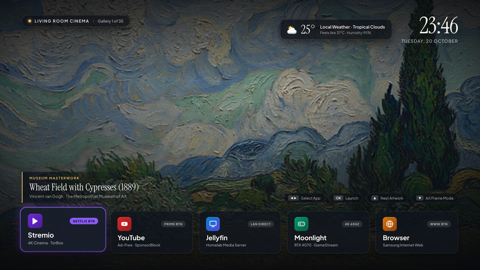
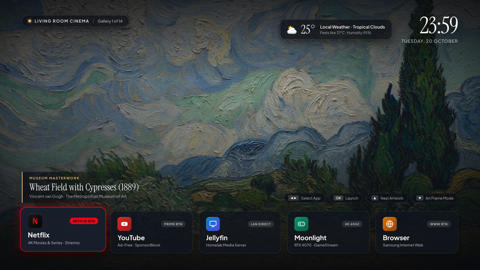
docs(homelab): update TV Home screenshot with Netflix card and 4K museum APIs

Changed region(s): [[0.0312, 0.7407, 0.2188, 0.9481], [0.125, 0.8, 0.25, 0.9185], [0.875, 0.0593, 0.9688, 0.1481]]

diff --git a/_posts/2026-09-01-homelab.md b/_posts/2026-09-01-homelab.md
@@ -176,7 +176,7 @@ Unlike Android TV, 2020 Tizen 5.5 TVs only have a pop-up bottom ribbon (`com.sam
 
 *The custom `TV Home` `.wgt` launcher running on the Samsung TV, pulling public-domain paintings from The Met and nature photography from Wikimedia Commons alongside live weather.*
 
-It bundles six high-resolution museum paintings (Van Gogh, Turner, Hokusai from The Met) and nature landscapes (from Wikimedia Commons) inside the `.wgt` so it renders with zero network delay on boot, and then pulls fresh public-domain paintings from **The Metropolitan Museum of Art Open Access API** (`collectionapi.metmuseum.org`) and nature photography from the **Wikimedia Commons Featured Landscapes API** (`commons.wikimedia.org/w/api.php` with `origin=*`, expanding the rotation to 35 works). The top-right corner displays a large editorial clock and live local weather from **Open-Meteo** (`api.open-meteo.com`), while the bottom row holds a five-app dock (**Stremio**, **YouTube**, **Jellyfin**, **Moonlight**, and **Browser**) navigated with the Samsung remote's left/right arrows and `OK` button. Pressing `Up` cross-fades to the next museum or nature backdrop, and pressing `Down` hides the dock completely so the 65-inch screen turns into a framed painting.
+It bundles six full-resolution 4K museum paintings (3400px to 4000px master scans of Van Gogh, Monet, Hokusai, Church, and Duncanson from **The Metropolitan Museum of Art** `primaryImage` endpoint and the **Cleveland Museum of Art Open Access API** `images.print.url` endpoint) inside the `.wgt` so it renders with zero network delay on boot, and then pulls additional 3400px+ horizontal landscape masterworks from the Cleveland Museum of Art API (`openaccess-api.clevelandart.org`) and 3840px 4K UHD nature photography from the **Wikimedia Commons Featured Landscapes API** (`iiurlwidth=3840`). Two details matter for image sharpness on a 65-inch 4K TV: declaring `<tizen:metadata key="http://samsung.com/tv/metadata/html5.4k.support" value="true"/>` in `config.xml` so Tizen renders the WebView at native 4K instead of upscaling a 720p buffer, and filtering the museum and Wikimedia API responses strictly for horizontal aspect ratios (`width / height >= 1.25` and `width >= 2800`) so `object-fit: cover` never crops a narrow vertical portrait across a widescreen panel. The top-right corner displays a large editorial clock and live local weather from **Open-Meteo** (`api.open-meteo.com`), while the bottom row holds a five-app dock (**Netflix** with the red `N` logo mapped to launch Stremio `IkWsFHtOY9.Stremio` so anyone in the house knows what to click, **YouTube**, **Jellyfin**, **Moonlight**, and **Browser**) navigated with the Samsung remote's left/right arrows and `OK` button. Pressing `Up` cross-fades to the next 4K museum or nature backdrop, and pressing `Down` hides the dock completely so the 65-inch screen turns into a framed painting.
 
 One packaging quirk showed up when installing `TV Home`: because `config.xml` had `<name>TV Home</name>` with a space, `tizen package` named the output archive `TV Home.wgt`. Passing a filename with a space to `tizen install -n "TV Home.wgt"` transfers the file to `/home/owner/share/tmp/sdk_tools/tmp/` and then fails silently inside `wascmd` because Tizen's on-device installer splits the remote path on whitespace. Renaming the archive to `TVHome.wgt` (no spaces) before running `tizen install` fixed it immediately.
 
